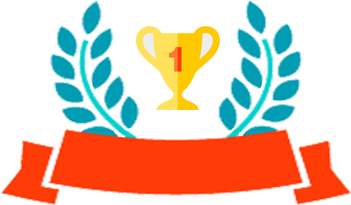
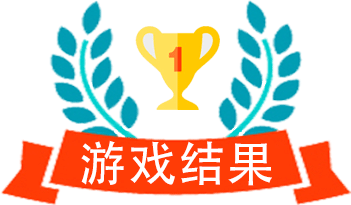
6.27

Changed region(s): [[0.2279, 0.6732, 0.7692, 0.9073]]

diff --git a/js3/js3-3-1.js b/js3/js3-3-1.js
@@ -1,6 +1,10 @@
 //从之前页面传递数组
 var role = JSON.parse(sessionStorage.getItem('data'));
 var allNum = role.length;
+var killerNum = JSON.parse(sessionStorage.getItem('killer'));
+var peopleNum = allNum - killerNum;
+// console.log(killerNum);
+// console.log(peopleNum);
 // console.log(role);
 
 //被杀人和被投人统计
@@ -139,6 +143,8 @@ $('.main').on('click', '.div1', function () {
         toKilling();
         step.clickone();
         $(this).css('background-color', '#83b09a');
+        //添加属性pointer-events: none;
+        $(this).css('pointer-events', 'none');
     } else {
         console.log('请按顺序操作');
     }
@@ -167,13 +173,13 @@ $('.main').on('click', '.div4', function () {
         toVoting();
         step.clickfour();
         $(this).css('background-color', '#83b09a');
-        var totalday = $('.day-num').length-1;
+        var totalday = $('.day-num').length - 1;
         console.log(totalday);
-        $('.step').eq(totalday).click(function(){
-            alert('请按顺序操作');
-        });
-        $('.step').eq(totalday).css('display','none');
-        $('.day').eq(totalday).click(function(){
+        // $('.step').eq(totalday).click(function(){
+        //     alert('请按顺序操作');
+        // });
+        $('.step').eq(totalday).css('display', 'none');
+        $('.day').eq(totalday).click(function () {
             $('.step').eq(totalday).toggle();
         });
     } else {
@@ -200,6 +206,7 @@ $('.to-die').click(function () {
             killedMen.push(killed);
             //改变为死亡的颜色
             $('.alive').eq(n - 1).css('background-color', '#83b09a');
+            peopleNum = peopleNum - 1;
             toJudge();
         } else {
             alert('我已经死了，不能再杀我了');
@@ -225,8 +232,10 @@ $('.to-vote').click(function () {
         votedMen.push(killerV);
         //改变为死亡的颜色
         $('.alive').eq(n - 1).css('background-color', '#83b09a');
-        toJudge();
-        createDay();
+        // toJudge();
+        //杀手人数减一
+        killerNum = killerNum - 1;
+        // createDay();
     } else if (personArr[n - 1].is('alive')) {
         personArr[n - 1].kill();
         //在法官台本下面显示信息
@@ -236,9 +245,27 @@ $('.to-vote').click(function () {
         votedMen.push(peopleV);
         //改变为死亡的颜色
         $('.alive').eq(n - 1).css('background-color', '#83b09a');
-        toJudge();
-        createDay();
+        //平民人数减一
+        peopleNum = peopleNum - 1;
+        // toJudge();
+        // createDay();
     } else {
         alert('我已经死了，不能再杀我了');
+    }
+    console.log(killedMen);
+    console.log(votedMen);
+    if (killerNum == 0 || (peopleNum - 1) <= killerNum) {
+        var kNum = JSON.stringify(killerNum);
+        var pNum = JSON.stringify(peopleNum);
+        var kMen = JSON.stringify(killedMen);
+        var vMen = JSON.stringify(votedMen);
+        sessionStorage.setItem('kNum', kNum);
+        sessionStorage.setItem('pNum', pNum);
+        sessionStorage.setItem('kMen', kMen);
+        sessionStorage.setItem('vMen', vMen);
+        window.location.href = 'js3-4.html';
+    } else {
+        toJudge();
+        createDay();
     }
 });

diff --git a/js3/js3-4.js b/js3/js3-4.js
@@ -1,42 +1,32 @@
-window.onload = function () {
-    var role = JSON.parse(sessionStorage.getItem('data'));
-    var allNum = role.length;
-    for (var i = 0; i < allNum; i++) {
-        var txt = `<label>
-        <div class="number">
-            <div class="card">
-                <p class="alive">水民</p>
-                <p class="serial">1号</p>
-            </div>
-            <input type="radio" name="role">
-            <div class="knife">
-                <img src="../js3/i/knife.png" alt="">
-            </div>
-        </div>
-    </label>`;
-        $('.main2').append(txt);
-        $('.alive').eq(i).text(function () {
-            return role[i];
-        });
-        $('.serial').eq(i).text(function () {
-            return i + 1;
-        });
-        //添加value;
-        $('input').eq(i).attr("value", function () {
-            return i + 1;
-        });
-        $('input').eq(i).attr("id", function () {
-            return "input" + (i + 1);
-        });
-        $('label').eq(i).attr("for", function () {
-            return "input" + (i + 1);
-        });
-    }
-    $('#btn').click(function () {
-        var killed = $('input[type = "radio"]:checked').val();
-        console.log(killed);
+var killerNum = JSON.parse(sessionStorage.getItem('kNum'));//剩余杀手人数
+var peopleNum = JSON.parse(sessionStorage.getItem('pNum'));//剩余平民人数
+var killedMen = JSON.parse(sessionStorage.getItem('kMen'));//晚上被杀信息
+var votedMen = JSON.parse(sessionStorage.getItem('vMen'));//白天被投信息
+console.log(killedMen);
+
+//增加对应天数
+var dayNum = killedMen.length;
+console.log(dayNum);
+$('#killer').text(killerNum);
+$('#people').text(peopleNum);
+for (var i = 0; i < dayNum; i++) {
+    var txt = `<div class="info">
+    <p>第<span class="allday"></span>天</p>
+    <p>黑夜：<span class="killinginfo"></span></p>
+    <p>白天：<span class="votinginfo"></span></p>
+</div>`;
+    $('main').append(txt);
+    $('.allday').eq(i).text(function () {
+        return i + 1;
+    });
+    $('.killinginfo').eq(i).text(function () {
+        return killedMen[i];
+    });
+    $('.votinginfo').eq(i).text(function () {
+        return votedMen[i];
     });
 }
-
-
-
+$('.to-die').click(function(){
+    // sessionStorage.clear()
+    window.location.href = 'js2.html';
+});

diff --git a/js3/js3-4.html b/js3/js3-4.html
@@ -1,25 +1,35 @@
 <!DOCTYPE html>
 <html lang="en">
+
 <head>
     <meta charset="UTF-8">
     <meta name="viewport" content="width=device-width, initial-scale=1.0">
     <meta http-equiv="X-UA-Compatible" content="ie=edge">
     <script src="https://cdn.staticfile.org/jquery/3.4.1/jquery.min.js"></script>
-    <title>杀手杀人</title>
-    <script src="js3-4.js"></script>
-    <style>
-        
-    </style>
+    <title>游戏结果</title>
+    <link rel="stylesheet" href="js3-3.css">
 </head>
-<body>
-    <header>
-        <img src="" alt="">
-        <span>杀手杀人</span>
-        <img src="" alt="">
+
+<body class="bg">
+    <header class="header">
+        <img src="../js3/i/home.png" alt="" class="img1 home">
+        <span>游戏结果</span>
+        <img src="../js3/i/close.png" alt="" class="img2">
     </header>
-    <main>
-        
+    <main class="main3">
+        <img src="../js3/i/victory.png" alt="" class="victory">
+        <div class="left">
+            <p>剩余玩家：</p>
+            <p>
+                <span>杀手<span id="killer"></span>人</span> <span>平民<span id="people"></span>人</span>
+            </p>
+        </div>
     </main>
-    <button id="btn">确定</button>
+    <footer class="bar">
+        <button class="to-die">再来一次</button>
+    </footer>
+    <script src="https://cdn.staticfile.org/jquery/3.4.1/jquery.min.js"></script>
+    <script src="js3-4.js"></script>
 </body>
+
 </html>

diff --git a/js3/js3-3.css b/js3/js3-3.css
@@ -6,7 +6,7 @@ p {
 body {
     background-color: #f0f0f0;
     /* background-color: #29bde0; */
-    padding-bottom: 50px;
+    padding-bottom: 70px;
 }
 
 .header {
@@ -18,7 +18,7 @@ body {
     color: #fff;
 }
 
-img.img1 {
+.img1 {
     width: 12px;
     margin: 10px;
 }
@@ -154,4 +154,30 @@ button.to-vote {
 }
 .killing{
     display: none;
+}
+img.victory {
+    width: 50%;
+    display: block;
+    margin: 0 auto;
+    padding: 30px;
+}
+.bg{
+    background-color: #29bde0;
+}
+.info{
+    background: #fff;
+    width: 95%;
+    margin: 0 auto;
+    border-bottom: 1px solid #999;
+}
+.main3 p{
+    padding: 0 5%;
+    line-height: 1.5;
+}
+.left {
+    color: #fff;
+    padding: 0 3%;
+}
+.home{
+    width: 20px;
 }

diff --git a/js3/js2.js b/js3/js2.js
@@ -46,6 +46,9 @@ function distribute() {
     var allNum = getAllNum();
     if (allNum >= 4 && allNum <= 18) {
         var role = JSON.stringify(selRandomNum());
+        var killerNum = JSON.stringify(getKillerNum());
+        // console.log(killerNum);
+        sessionStorage.setItem('killer', killerNum);
         sessionStorage.setItem('data', role);
         window.location.href = '../js3/js3-1.html';
     } else {
